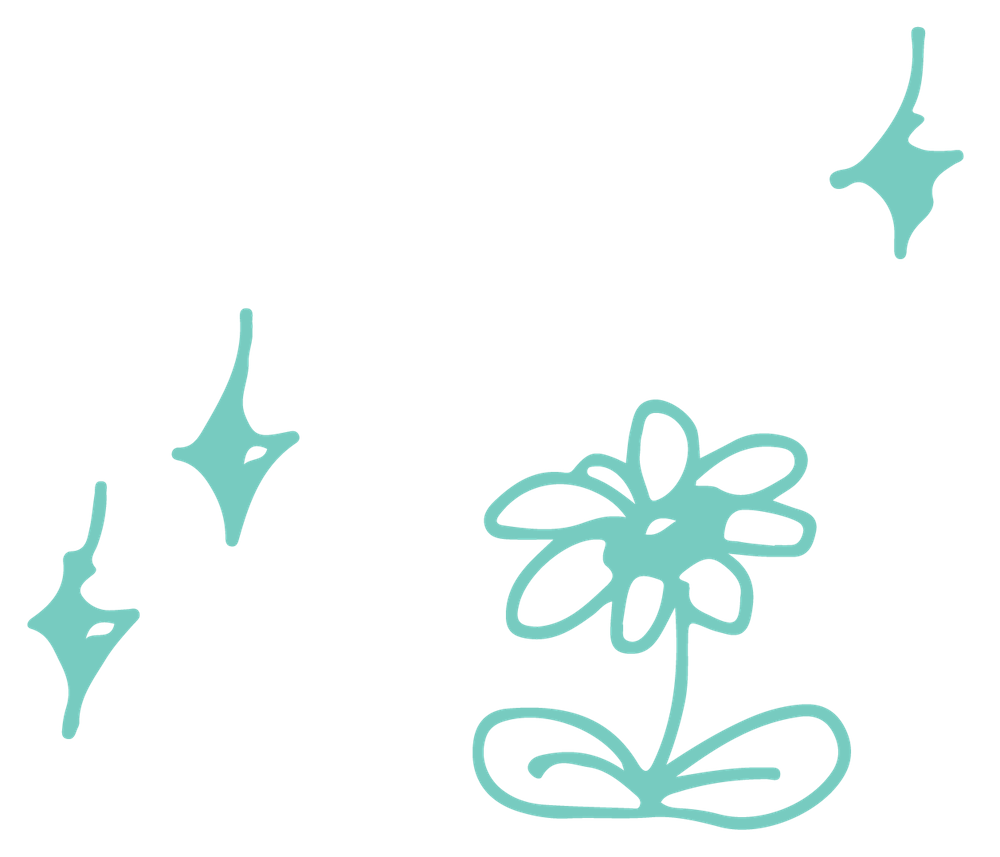
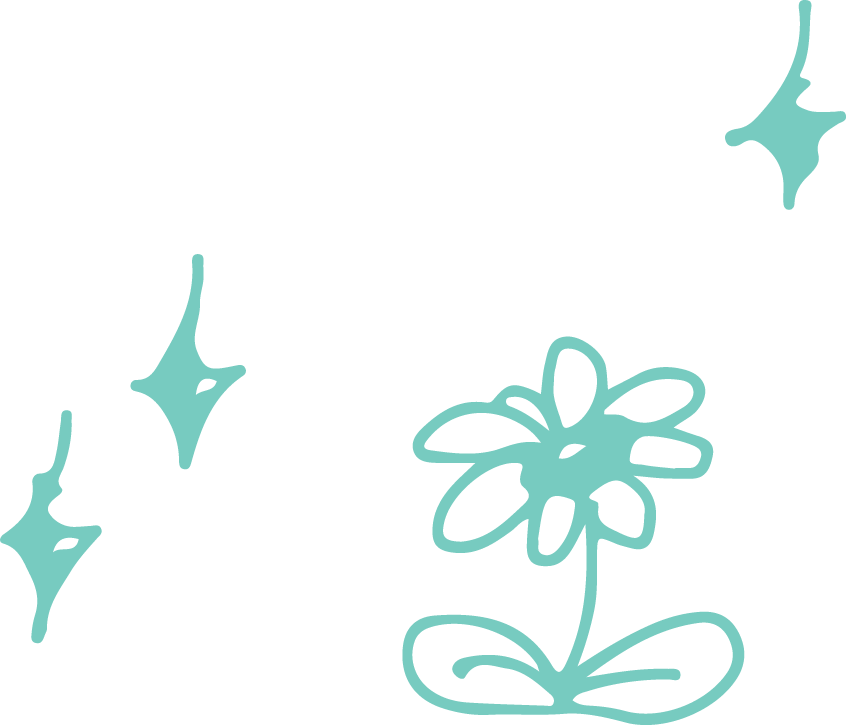
きんゆう散歩_fix

diff --git a/web/public/assets/css/kinyu/campaign/kinyu_map.css b/web/public/assets/css/kinyu/campaign/kinyu_map.css
@@ -128,8 +128,8 @@
 }
 .map-container .illust-flower {
   position: absolute;
-  bottom: -104px;
-  right: -55px;
+  bottom: -126px;
+  right: -6px;
   width: 120px;
 }
 .map-container .illust-sun {
@@ -142,6 +142,51 @@
   display: none;
 }
 
+/* マップ・コンテンツラスト部分 */
+.map_last {
+  width: 450px;
+  margin: 0 auto;
+  padding-bottom: 80px;
+  transition: .5s;
+}
+.map_last img { 
+  width: 100%;
+}
+
+/* コンテンツ一覧 */
+.kinyu-map-list-block {
+  border-top: 1px solid #8ddcd1;
+  margin-top: 120px;
+  padding: 32px 50px 0px;
+}
+.kinyu-map-list-block .map-list-title {
+  text-align: center;
+  font-size: 18px;
+  line-height: 18px;
+  color: #77cbc0;
+  margin-bottom: 20px;
+}
+.kinyu-map-list-block li {
+  width: 48%;
+  float: left;
+  margin-right: 4%;
+  margin-bottom: 2%;
+}
+.kinyu-map-list-block li:nth-child(2n) {
+  margin-right: 0%;
+}
+.kinyu-map-list-block li a {
+  display: block;
+  transition: .5s;
+}
+.kinyu-map-list-block li img {
+  width: 100%;
+}
+.kinyu-map-list-block li p {
+  text-align: center;
+}
+
+
 
 /* ----------------------------------
     スマートフォン＆タブレット
@@ -150,7 +195,7 @@
 
 .kinyu-map-block {
   width: 100%;
-  padding: 12px 0px 32px;
+  padding: 12px 0px 0px;
 }
 .kinyu-map-title img {
   width: 78%;
@@ -225,21 +270,53 @@
   width: 160px;
 }
 .map-el-title {
-    font-size: 10px;
-    line-height: 16px;
-    margin-top: 8px;
-    width: 98%;
-    font-weight: 400;
-    font-family: 'Noto Sans JP'!important;
+  font-size: 10px;
+  line-height: 16px;
+  margin-top: 8px;
+  width: 98%;
+  font-weight: 400;
+  font-family: 'Noto Sans JP'!important;
 }
 .map-decription {
-    font-size: 10px;
-    line-height: 15px;
-    margin-top: 4px;
-    font-family: 'Noto Sans JP'!important;
+  font-size: 10px;
+  line-height: 15px;
+  margin-top: 4px;
+  font-family: 'Noto Sans JP'!important;
 }
 
+/* コンテンツ一覧 */
+.kinyu-map-list-block {
+  width: 92%;
+  margin: 0 auto;
+  margin-top: 60px;
+  padding: 32px 0px 0px;
+  border-top: 1px solid #eaeaea;
+}
+.kinyu-map-list-block .map-list-title {
+  font-size: 15px;
+  line-height: 15px;
+  margin-bottom: 12px;
+}
+.kinyu-map-list-block li {
+  width: 48%;
+  float: left;
+  margin-right: 4%;
+  margin-bottom: 2%;
+}
+.kinyu-map-list-block li:nth-child(2n) {
+  margin-right: 0%;
+}
+.kinyu-map-list-block li p {
+  font-size: 11px;
+}
+}
 
+@media screen and (min-width: 1025px) {
+
+  .map_last:hover,
+  .kinyu-map-list-block li a:hover  {
+    opacity: .5;
+  }
 
 }
 

diff --git a/web/fuel/app/classes/controller/kinyu/campaign.php b/web/fuel/app/classes/controller/kinyu/campaign.php
@@ -193,6 +193,7 @@ class Controller_Kinyu_Campaign extends Controller_Kinyubase
         $this->template->pc_header = View::forge('kinyu/common/pc_header.smarty', $this->data);
         $this->template->sp_footer = View::forge('kinyu/common/sp_footer.smarty', $this->data);
         $this->template->sp_navigation = View::forge('kinyu/common/sp_navigation.smarty', $this->data);
+        $this->template->map_last = View::forge('kinyu/kinyu_map/map_last.smarty', $this->data);
 
         if (Agent::is_mobiledevice()) {
             $this->template->navigation = View::forge('kinyu/common/sp_navigation.smarty', $this->data);

diff --git a/web/fuel/app/classes/controller/kinyu/kinyumap.php b/web/fuel/app/classes/controller/kinyu/kinyumap.php
@@ -25,6 +25,7 @@ class Controller_Kinyu_Kinyumap extends Controller_Kinyubase
         $this->template->sp_header = View::forge('kinyu/common/sp_header.smarty', $this->data);
         $this->template->pc_header = View::forge('kinyu/common/pc_header.smarty', $this->data);
         $this->template->sp_navigation = View::forge('kinyu/common/sp_navigation.smarty', $this->data);
+        $this->template->map_last = View::forge('kinyu/kinyumap/map_last.smarty', $this->data);
 
         if (Agent::is_mobiledevice()) {
             $this->template->navigation = View::forge('kinyu/common/sp_navigation.smarty', $this->data);
